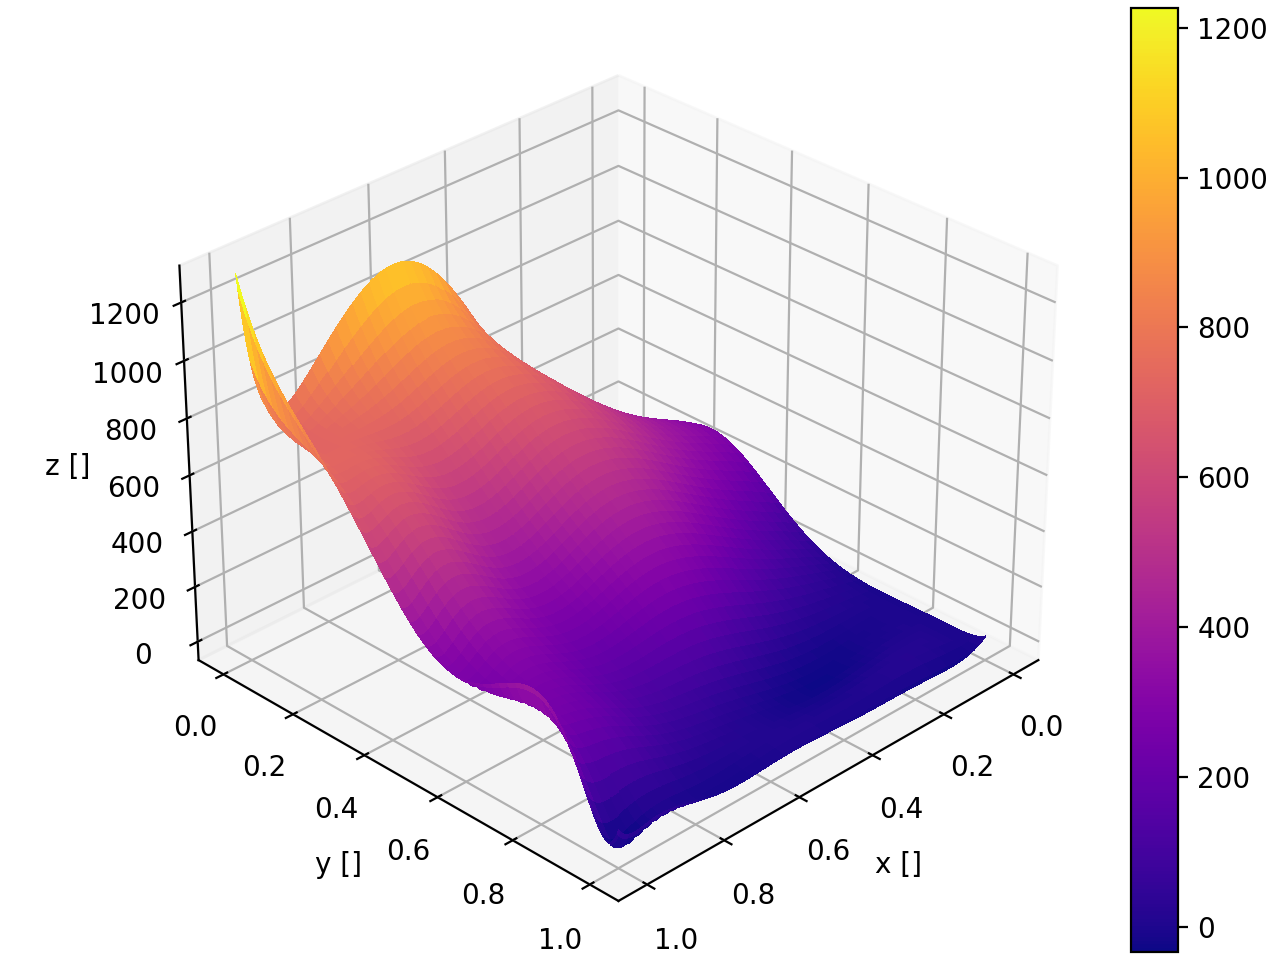
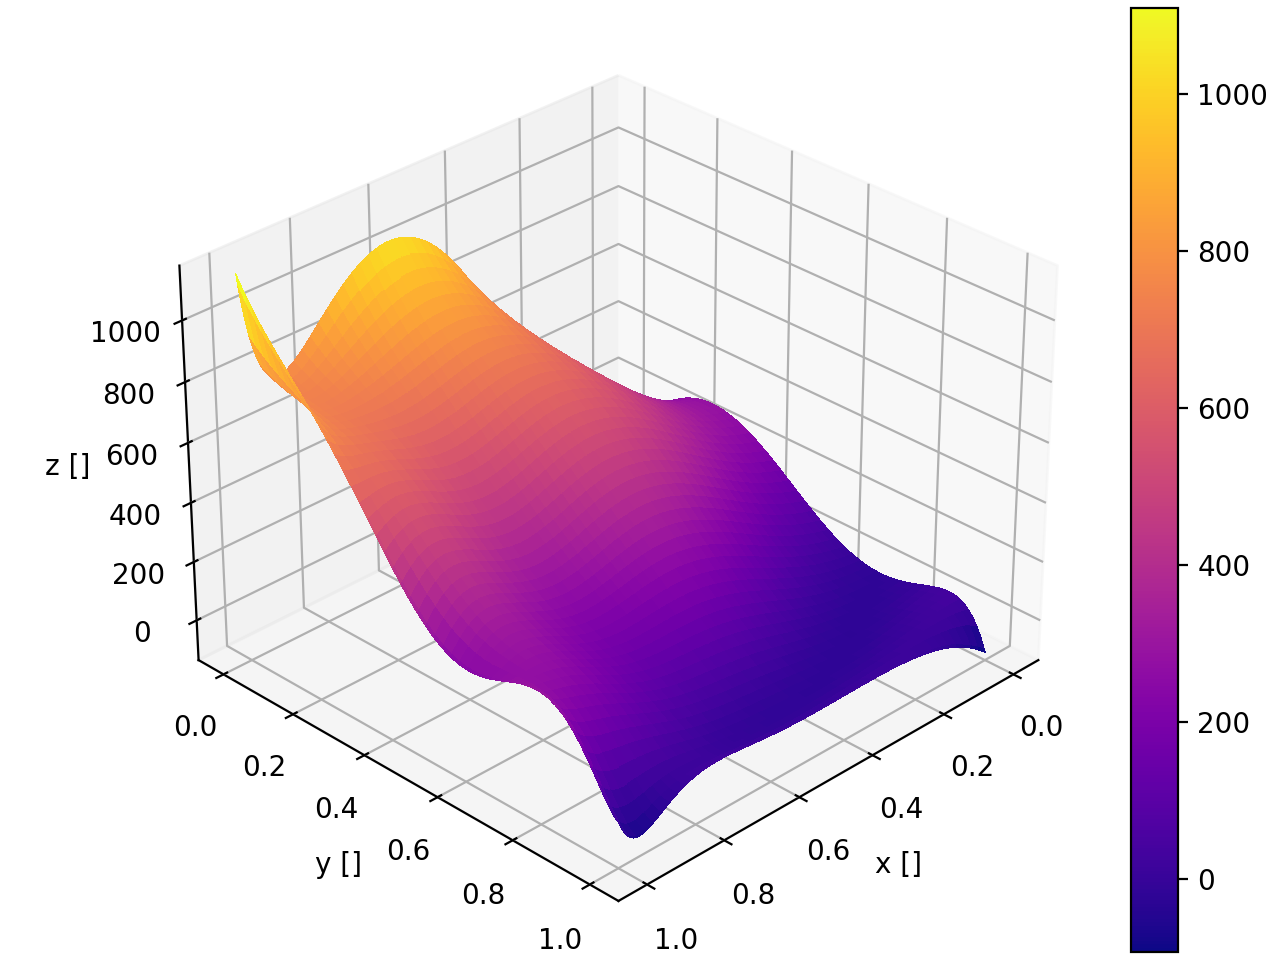
small fixes, added readme

diff --git a/project1/terrain_approximation.py b/project1/terrain_approximation.py
@@ -1,4 +1,3 @@
-from sklearn.model_selection import GridSearchCV
 from sklearn.linear_model import Ridge
 from polyUtils import poly_generator
 from linfitUtils import SplitData
@@ -8,7 +7,7 @@ import numpy as np
 
 np.random.seed(1337)
 optimal_degree = 13
-optimal_lda = 0.0003827494478516307
+optimal_lda = 0.0283
 
 lda_ray = np.logspace(-8, 4, 200)
 x_grid, y_grid, z_grid = get_terrain(600)

diff --git a/project1/readme.md b/project1/readme.md
@@ -1,3 +1,15 @@
 # Project 1
 
-hello world
+The program `polyUtils.py` includes useful functions for 2d polynomials, `power_itr` returns an iterator which returns the x- and y powers for each term, and `poly_generator` creates a polynomial function from a set of coefficients. Running this program runs a test function that prints a degree 4 polynomial.
+
+The program `linfitUtils.py` includes useful functions for linear regression, the `SplitData` class and the `LinFit` class. `test_linfitUtils.py` test the `linfitUtils`.
+
+The program `franke_func.p` includes Franke's function, and creates a plot of it when run. The program `terrain.py` has a function for sampling our terrain data, and creates a plot of the terrain when fun.
+
+The program `MSE_R2_plotte.py` creates the figures in `imgs/franke/MSE_R2_comp`, the program bias-variance includes functions for getting error, bias, and variance, and running it creates the figure `imgs/franke/bias-variance_OLS.png`.
+The programs `ridge.py` and `lasso.py` creates the figures `imgs/franke/bias-variance_Ridge.png` and `imgs/franke/bias-variance_Lasso.png` respectively.
+
+The program `overfittinator.py` creates the figure `imgs/franke/overfitting_example.png`.
+`resampling_comp.py` creates `imgs/franke/resampling_regression_comp.png`
+
+The program `terrain_analyzer` creates the figure `imgs/terrain/terrain_MSE.png`, and `terrain_approximation.py` creates `imgs/terrain/terrain_approximation.png` and `imgs/terrain/terrain_difference.png`
